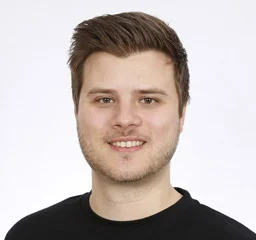
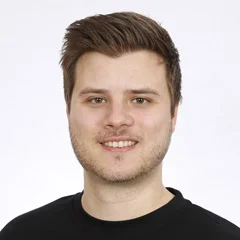
Fix aspect ratio of kyrim image

diff --git a/pages/index.tsx b/pages/index.tsx
@@ -49,8 +49,6 @@ const ProfilePicture = styled.picture`
   margin-top: 1rem;
 
   & > img {
-    width: 256px;
-    height: 256px;
     border-radius: 50% 50%;
     border: 2px solid ${(props) => props.theme.colors.primary};
     box-shadow: ${(props) => props.theme.boxShadow};
